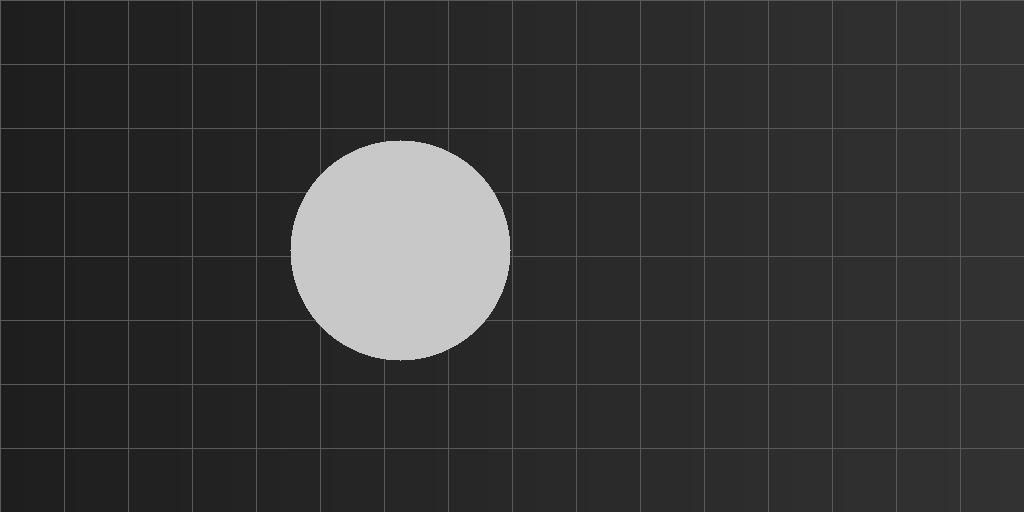
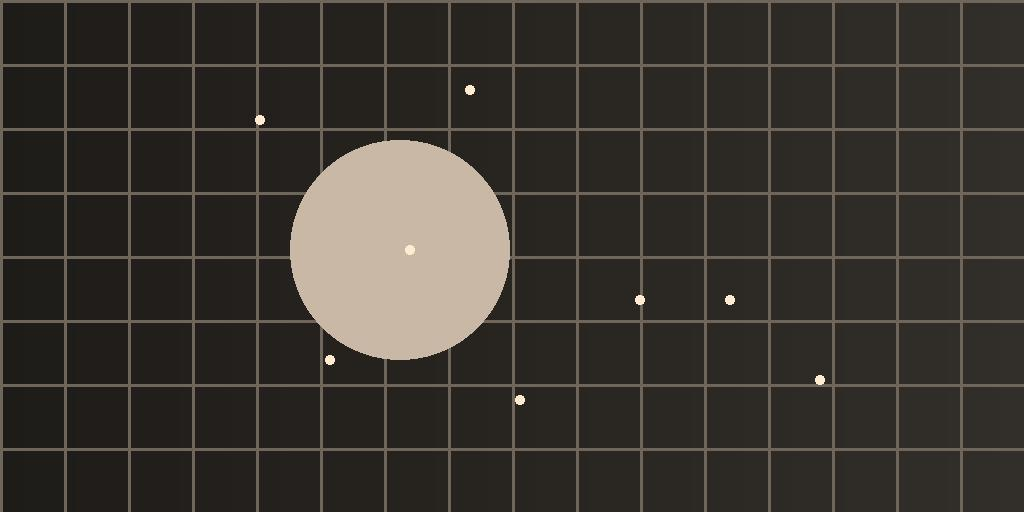
Make the mock Compare pair rotated and scaled with a stepped corner, exact control points and a footprint

diff --git a/scripts/generate-mock.ts b/scripts/generate-mock.ts
@@ -2,7 +2,8 @@ import { createHash } from "node:crypto";
 import { mkdirSync, writeFileSync } from "node:fs";
 import { join } from "node:path";
 import Vips from "wasm-vips";
-import type { BandSet, ComparePair, ImageManifest, Source } from "../src/content/types";
+import { applySimilarity, fitSimilarity, invertSimilarity, residuals } from "../src/content/registration";
+import type { BandSet, ComparePair, ImageManifest, Similarity, Source } from "../src/content/types";
 import { cutPyramid, tilesBlock, writeThumbnails } from "./generate-tiles";
 
 const W = 1024;
@@ -41,11 +42,103 @@ interface Spec {
   tint: [number, number, number];
   band: string;
   color: string;
+  width?: number; // default W x H
+  height?: number;
 }
 
+// The Compare mock mirrors the Hubble pair's geometry: the moving image has coarser pixels
+// (scale 2), is turned 7.3 degrees, and misses a stepped corner, as the WFPC2 mosaic does.
+// It also reaches past the top and bottom of the reference frame, as Webb will.
+export const MOVING = { width: 400, height: 240 };
+const MOVING_CENTER_ON_REFERENCE = { x: 560, y: 250 };
+const ROTATION = 7.3;
+const SCALE = 2;
+const turn = applySimilarity({ scale: SCALE, rotationDeg: ROTATION, tx: 0, ty: 0 }, { x: MOVING.width / 2, y: MOVING.height / 2 });
+export const MOCK_SIMILARITY: Similarity = {
+  scale: SCALE,
+  rotationDeg: ROTATION,
+  tx: MOVING_CENTER_ON_REFERENCE.x - turn.x,
+  ty: MOVING_CENTER_ON_REFERENCE.y - turn.y,
+};
+
+// The empty corner, stepped: the moving image is black where x >= from and y < depth.
+const NOTCH = [
+  { from: 200, depth: 60 },
+  { from: 270, depth: 90 },
+  { from: 340, depth: 120 },
+];
+const inNotch = (x: number, y: number) => NOTCH.some((n) => x >= n.from && y < n.depth);
+
+// The data area, inset 2 px from the black, in moving pixels.
+export const MOCK_FOOTPRINT = [[
+  { x: 2, y: 2 }, { x: 198, y: 2 }, { x: 198, y: 62 }, { x: 268, y: 62 }, { x: 268, y: 92 },
+  { x: 338, y: 92 }, { x: 338, y: 122 }, { x: MOVING.width - 2, y: 122 },
+  { x: MOVING.width - 2, y: MOVING.height - 2 }, { x: 2, y: MOVING.height - 2 },
+]];
+
+// Stars in reference pixels; every one lands inside the moving image's data area.
+const STARS = [
+  { x: 260, y: 120 }, { x: 330, y: 360 }, { x: 470, y: 90 }, { x: 520, y: 400 },
+  { x: 640, y: 300 }, { x: 730, y: 300 }, { x: 820, y: 380 }, { x: 410, y: 250 },
+];
+const STAR_R = 5;
+
+// The sky both images show, in reference pixels: a gradient, a 3 px grid, stars and a disc.
+export const scene = (x: number, y: number, disc: Disc) => {
+  if (STARS.some((s) => (x - s.x) ** 2 + (y - s.y) ** 2 <= STAR_R ** 2)) return 255;
+  if ((x - disc.x) ** 2 + (y - disc.y) ** 2 <= disc.r ** 2) return disc.value;
+  const mod = (v: number) => ((v % 64) + 64) % 64;
+  if (mod(x) < 3 || mod(y) < 3) return 110;
+  return 30 + Math.round((x / W) * 20);
+};
+
+const BEFORE_DISC: Disc = { x: 400, y: 250, r: 110, value: 200 };
+const AFTER_DISC: Disc = { x: 470, y: 280, r: 150, value: 240 };
+// Warm reference, cool moving image: a pixel probe tells them apart by color.
+const WARM: [number, number, number] = [255, 235, 210];
+const COOL: [number, number, number] = [140, 190, 255];
+
+const tinted = (px: Uint8Array, o: number, v: number, tint: [number, number, number]) => {
+  for (let k = 0; k < 3; k++) px[o + k] = Math.round((v * tint[k]) / 255);
+};
+
+export const referencePixels = () => {
+  const px = new Uint8Array(W * H * 3);
+  for (let y = 0; y < H; y++) for (let x = 0; x < W; x++) tinted(px, (y * W + x) * 3, scene(x + 0.5, y + 0.5, BEFORE_DISC), WARM);
+  return px;
+};
+
+// Each moving pixel averages 3 x 3 samples of the scene where the similarity puts it.
+export const movingPixels = () => {
+  const { width, height } = MOVING;
+  const px = new Uint8Array(width * height * 3);
+  for (let y = 0; y < height; y++) {
+    for (let x = 0; x < width; x++) {
+      if (inNotch(x, y)) continue;
+      let sum = 0;
+      for (let j = 0; j < 3; j++) {
+        for (let i = 0; i < 3; i++) {
+          const q = applySimilarity(MOCK_SIMILARITY, { x: x + (i + 0.5) / 3, y: y + (j + 0.5) / 3 });
+          sum += scene(q.x, q.y, AFTER_DISC);
+        }
+      }
+      tinted(px, (y * width + x) * 3, sum / 9, COOL);
+    }
+  }
+  return px;
+};
+
+export const mockControlPoints = () => {
+  const back = invertSimilarity(MOCK_SIMILARITY);
+  return STARS.map((s, i) => ({ label: `star ${String.fromCharCode(65 + i)}`, moving: applySimilarity(back, s), reference: { ...s } }));
+};
+
+export const COMPARE_SPECS: Spec[] = [
+  { id: "mock-compare-before", title: "Mock Compare, before", disc: BEFORE_DISC, tint: WARM, band: "mock-gray", color: "gray" },
+  { id: "mock-compare-after", title: "Mock Compare, after", disc: AFTER_DISC, tint: COOL, band: "mock-gray", color: "gray", ...MOVING },
+];
+
 export const SPECS: Spec[] = [
-  { id: "mock-compare-before", title: "Mock Compare, before", disc: { x: 400, y: 250, r: 110, value: 200 }, tint: [255, 255, 255], band: "mock-gray", color: "gray" },
-  { id: "mock-compare-after", title: "Mock Compare, after", disc: { x: 470, y: 280, r: 150, value: 240 }, tint: [255, 255, 255], band: "mock-gray", color: "gray" },
   { id: "mock-light-a", title: "Mock Light, band A", disc: { x: 512, y: 256, r: 60, value: 230 }, tint: [255, 80, 80], band: "mock-a", color: "red" },
   { id: "mock-light-b", title: "Mock Light, band B", disc: { x: 512, y: 256, r: 130, value: 230 }, tint: [80, 255, 80], band: "mock-b", color: "green" },
   { id: "mock-light-c", title: "Mock Light, band C", disc: { x: 512, y: 256, r: 200, value: 230 }, tint: [80, 80, 255], band: "mock-c", color: "blue" },
@@ -64,7 +157,7 @@ export const mockSource = (spec: Spec, file: { bytes: number; sha256: string }):
   credit: "Synthetic test image generated by scripts/generate-mock.ts. Not NASA data.",
   terms: { name: "Not for publication", url: "https://example.org/mock" },
   retrievedAt: "2026-11-17",
-  file: { format: "png", ...file, width: W, height: H },
+  file: { format: "png", ...file, width: spec.width ?? W, height: spec.height ?? H },
   validation: { ...DRAFT },
   mock: true,
 });
@@ -81,6 +174,7 @@ export const mockImage = (spec: Spec, tiles: ImageManifest["tiles"]): ImageManif
   releasedAt: claim("2026-11-17"),
   productType: claim("single exposure" as const),
   caveats: ["Synthetic test pattern. It shows nothing about the sky."],
+  ...(spec.id === "mock-compare-after" ? { footprint: MOCK_FOOTPRINT } : {}),
   tiles,
   validation: { ...DRAFT },
   mock: true,
@@ -88,15 +182,30 @@ export const mockImage = (spec: Spec, tiles: ImageManifest["tiles"]): ImageManif
 
 const registration = { method: "none, same synthetic grid", transform: "none" as const, residualPx: 0 as const };
 
+const mockRegistration = (): ComparePair["registration"] => {
+  const controlPoints = mockControlPoints();
+  const similarity = fitSimilarity(controlPoints);
+  const r = residuals(similarity, controlPoints);
+  return {
+    method: "similarity, least squares on exact synthetic star positions",
+    transform: "similarity",
+    controlPoints,
+    similarity,
+    residualPx: r.rms,
+    maxResidualPx: r.max,
+  };
+};
+
 export const MOCK_PAIR: ComparePair = {
   id: "mock-compare",
   title: "Mock Compare pair",
   imageIds: ["mock-compare-before", "mock-compare-after"],
   reference: "mock-compare-before",
   headline: "Synthetic: the disc grows",
-  differs: { instrument: false, band: false, date: true, illumination: false, geometry: false, processing: false },
-  registration,
-  whatDiffers: "Synthetic. The disc is larger and shifted in the second image; nothing else changes.",
+  differs: { instrument: false, band: false, date: true, illumination: false, geometry: true, processing: false },
+  registration: mockRegistration(),
+  whatDiffers:
+    "Synthetic. The second image has pixels twice as coarse, is turned 7.3 degrees and misses a stepped corner. The disc is larger and shifted; the stars and the grid do not move.",
   validation: { ...DRAFT },
   mock: true,
 };
@@ -119,15 +228,19 @@ const writeJson = (path: string, value: unknown) => {
 
 const main = async () => {
   const vips = await Vips();
-  for (const spec of SPECS) {
-    const image = vips.Image.newFromMemory(synthPixels(spec.disc, spec.tint), W, H, 3, vips.BandFormat.uchar);
+  const pixels = (spec: Spec) =>
+    spec.id === "mock-compare-before" ? referencePixels() : spec.id === "mock-compare-after" ? movingPixels() : synthPixels(spec.disc, spec.tint);
+  for (const spec of [...COMPARE_SPECS, ...SPECS]) {
+    const width = spec.width ?? W;
+    const height = spec.height ?? H;
+    const image = vips.Image.newFromMemory(pixels(spec), width, height, 3, vips.BandFormat.uchar);
     const png = Buffer.from(image.writeToBuffer(".png"));
     const outDir = join("public", "tiles", spec.id);
     await cutPyramid(image, outDir, { tileSize: TILE, maxLevel: MAX_LEVEL });
     const sizes = await writeThumbnails(image, outDir);
     const sha256 = createHash("sha256").update(png).digest("hex");
     writeJson(join("data", "mock", "sources", `${spec.id}.json`), mockSource(spec, { bytes: png.length, sha256 }));
-    writeJson(join("data", "mock", "images", `${spec.id}.json`), mockImage(spec, tilesBlock(W, H, TILE, MAX_LEVEL, sizes)));
+    writeJson(join("data", "mock", "images", `${spec.id}.json`), mockImage(spec, tilesBlock(width, height, TILE, MAX_LEVEL, sizes)));
   }
   writeJson(join("data", "mock", "pairs", `${MOCK_PAIR.id}.json`), MOCK_PAIR);
   writeJson(join("data", "mock", "band-sets", `${MOCK_BAND_SET.id}.json`), MOCK_BAND_SET);

diff --git a/scripts/generate-mock.test.ts b/scripts/generate-mock.test.ts
@@ -1,7 +1,22 @@
 import { describe, expect, it } from "vitest";
 import { validateContent } from "../src/content/validate";
 import { publishProblems } from "../src/content/gate";
-import { MOCK_BAND_SET, MOCK_PAIR, SPECS, mockImage, mockSource, synthPixels } from "./generate-mock";
+import { fitSimilarity, residuals } from "../src/content/registration";
+import {
+  COMPARE_SPECS,
+  MOCK_BAND_SET,
+  MOCK_FOOTPRINT,
+  MOCK_PAIR,
+  MOCK_SIMILARITY,
+  MOVING,
+  SPECS,
+  mockControlPoints,
+  mockImage,
+  mockSource,
+  movingPixels,
+  referencePixels,
+  synthPixels,
+} from "./generate-mock";
 
 const tiles = {
   format: "jpg" as const, tileSize: 256, overlap: 0 as const, width: 1024, height: 512,
@@ -27,11 +42,50 @@ describe("synthPixels", () => {
   });
 });
 
+describe("the rotated Compare mock", () => {
+  const moving = movingPixels();
+  const at = (x: number, y: number) => {
+    const o = (Math.floor(y) * MOVING.width + Math.floor(x)) * 3;
+    return [moving[o], moving[o + 1], moving[o + 2]];
+  };
+
+  it("refits its own control points to the transform it was drawn with", () => {
+    const points = mockControlPoints();
+    const fit = fitSimilarity(points);
+    expect(residuals(fit, points).max).toBeLessThan(1e-6);
+    expect(fit.scale).toBeCloseTo(MOCK_SIMILARITY.scale, 12);
+    expect(fit.rotationDeg).toBeCloseTo(7.3, 12);
+    expect(MOCK_PAIR.registration.transform === "similarity" && MOCK_PAIR.registration.residualPx).toBeLessThan(1e-6);
+  });
+  it("draws each star where its control point says, in both images", () => {
+    const ref = referencePixels();
+    for (const cp of mockControlPoints()) {
+      expect(ref[(Math.floor(cp.reference.y) * 1024 + Math.floor(cp.reference.x)) * 3]).toBe(255);
+      // The moving image is cool: a star there is bright in blue.
+      expect(at(cp.moving.x, cp.moving.y)[2]).toBeGreaterThan(200);
+    }
+  });
+  it("leaves the stepped corner black and keeps the footprint inside the data", () => {
+    expect(at(MOVING.width - 1, 0)).toEqual([0, 0, 0]);
+    expect(at(210, 5)).toEqual([0, 0, 0]);
+    for (const v of MOCK_FOOTPRINT[0]) {
+      const near = at(Math.min(v.x, MOVING.width - 1), Math.min(v.y, MOVING.height - 1));
+      expect(near.some((c) => c > 0)).toBe(true);
+    }
+  });
+  it("tints the two images apart: warm reference, cool moving image", () => {
+    const ref = referencePixels();
+    expect(ref[0]).toBeGreaterThan(ref[2]);
+    const [r, , b] = at(20, 200);
+    expect(b).toBeGreaterThan(r * 1.5);
+  });
+});
+
 describe("mock records", () => {
   const files = [
-    ...SPECS.flatMap((s) => [
+    ...[...COMPARE_SPECS, ...SPECS].flatMap((s) => [
       { path: `data/mock/sources/${s.id}.json`, raw: mockSource(s, { bytes: 10, sha256: "a".repeat(64) }) },
-      { path: `data/mock/images/${s.id}.json`, raw: mockImage(s, tiles) },
+      { path: `data/mock/images/${s.id}.json`, raw: mockImage(s, { ...tiles, width: s.width ?? 1024, height: s.height ?? 512 }) },
     ]),
     { path: `data/mock/pairs/${MOCK_PAIR.id}.json`, raw: MOCK_PAIR },
     { path: `data/mock/band-sets/${MOCK_BAND_SET.id}.json`, raw: MOCK_BAND_SET },
@@ -44,6 +98,6 @@ describe("mock records", () => {
   it("are all blocked by the production gate", () => {
     const r = validateContent(files);
     const problems = r.ok ? publishProblems(r.value) : [];
-    expect(problems.filter((p) => p.endsWith("mock content cannot be published"))).toHaveLength(SPECS.length * 2 + 2);
+    expect(problems.filter((p) => p.endsWith("mock content cannot be published"))).toHaveLength((SPECS.length + COMPARE_SPECS.length) * 2 + 2);
   });
 });

diff --git a/docs/architecture.md b/docs/architecture.md
@@ -445,8 +445,11 @@ failure reads as a content error rather than a prerender stack. Mock files live 
 leaks into the real directories.
 
 Mock content (D-09, built): `data/mock/` holds a Compare pair `mock-compare` (two images) and a
-Light band set `mock-light` (three bands), each over synthetic 1024 x 512 grids with a disc,
-flagged `mock: true`, status `draft`, claims `unverified`, credit "Not NASA data".
+Light band set `mock-light` (three bands), synthetic grids with a disc,
+flagged `mock: true`, status `draft`, claims `unverified`, credit "Not NASA data". Since
+Sprint 7 the pair has real geometry: the moving image (400 x 240) is drawn from the reference
+scene at scale 2, turned 7.3 degrees, with a stepped black corner, a footprint polygon and
+eight exact star control points (refit residual below 1e-6 px).
 `npm run generate-mock` rewrites them and their tile trees under `public/tiles/mock-*`
 (about 600 KB). `next dev` shows them; production never reads `data/mock/`, and the gate
 rejects a mock that leaks into `data/`. `next build` copies `public/` into `out/`, so a
